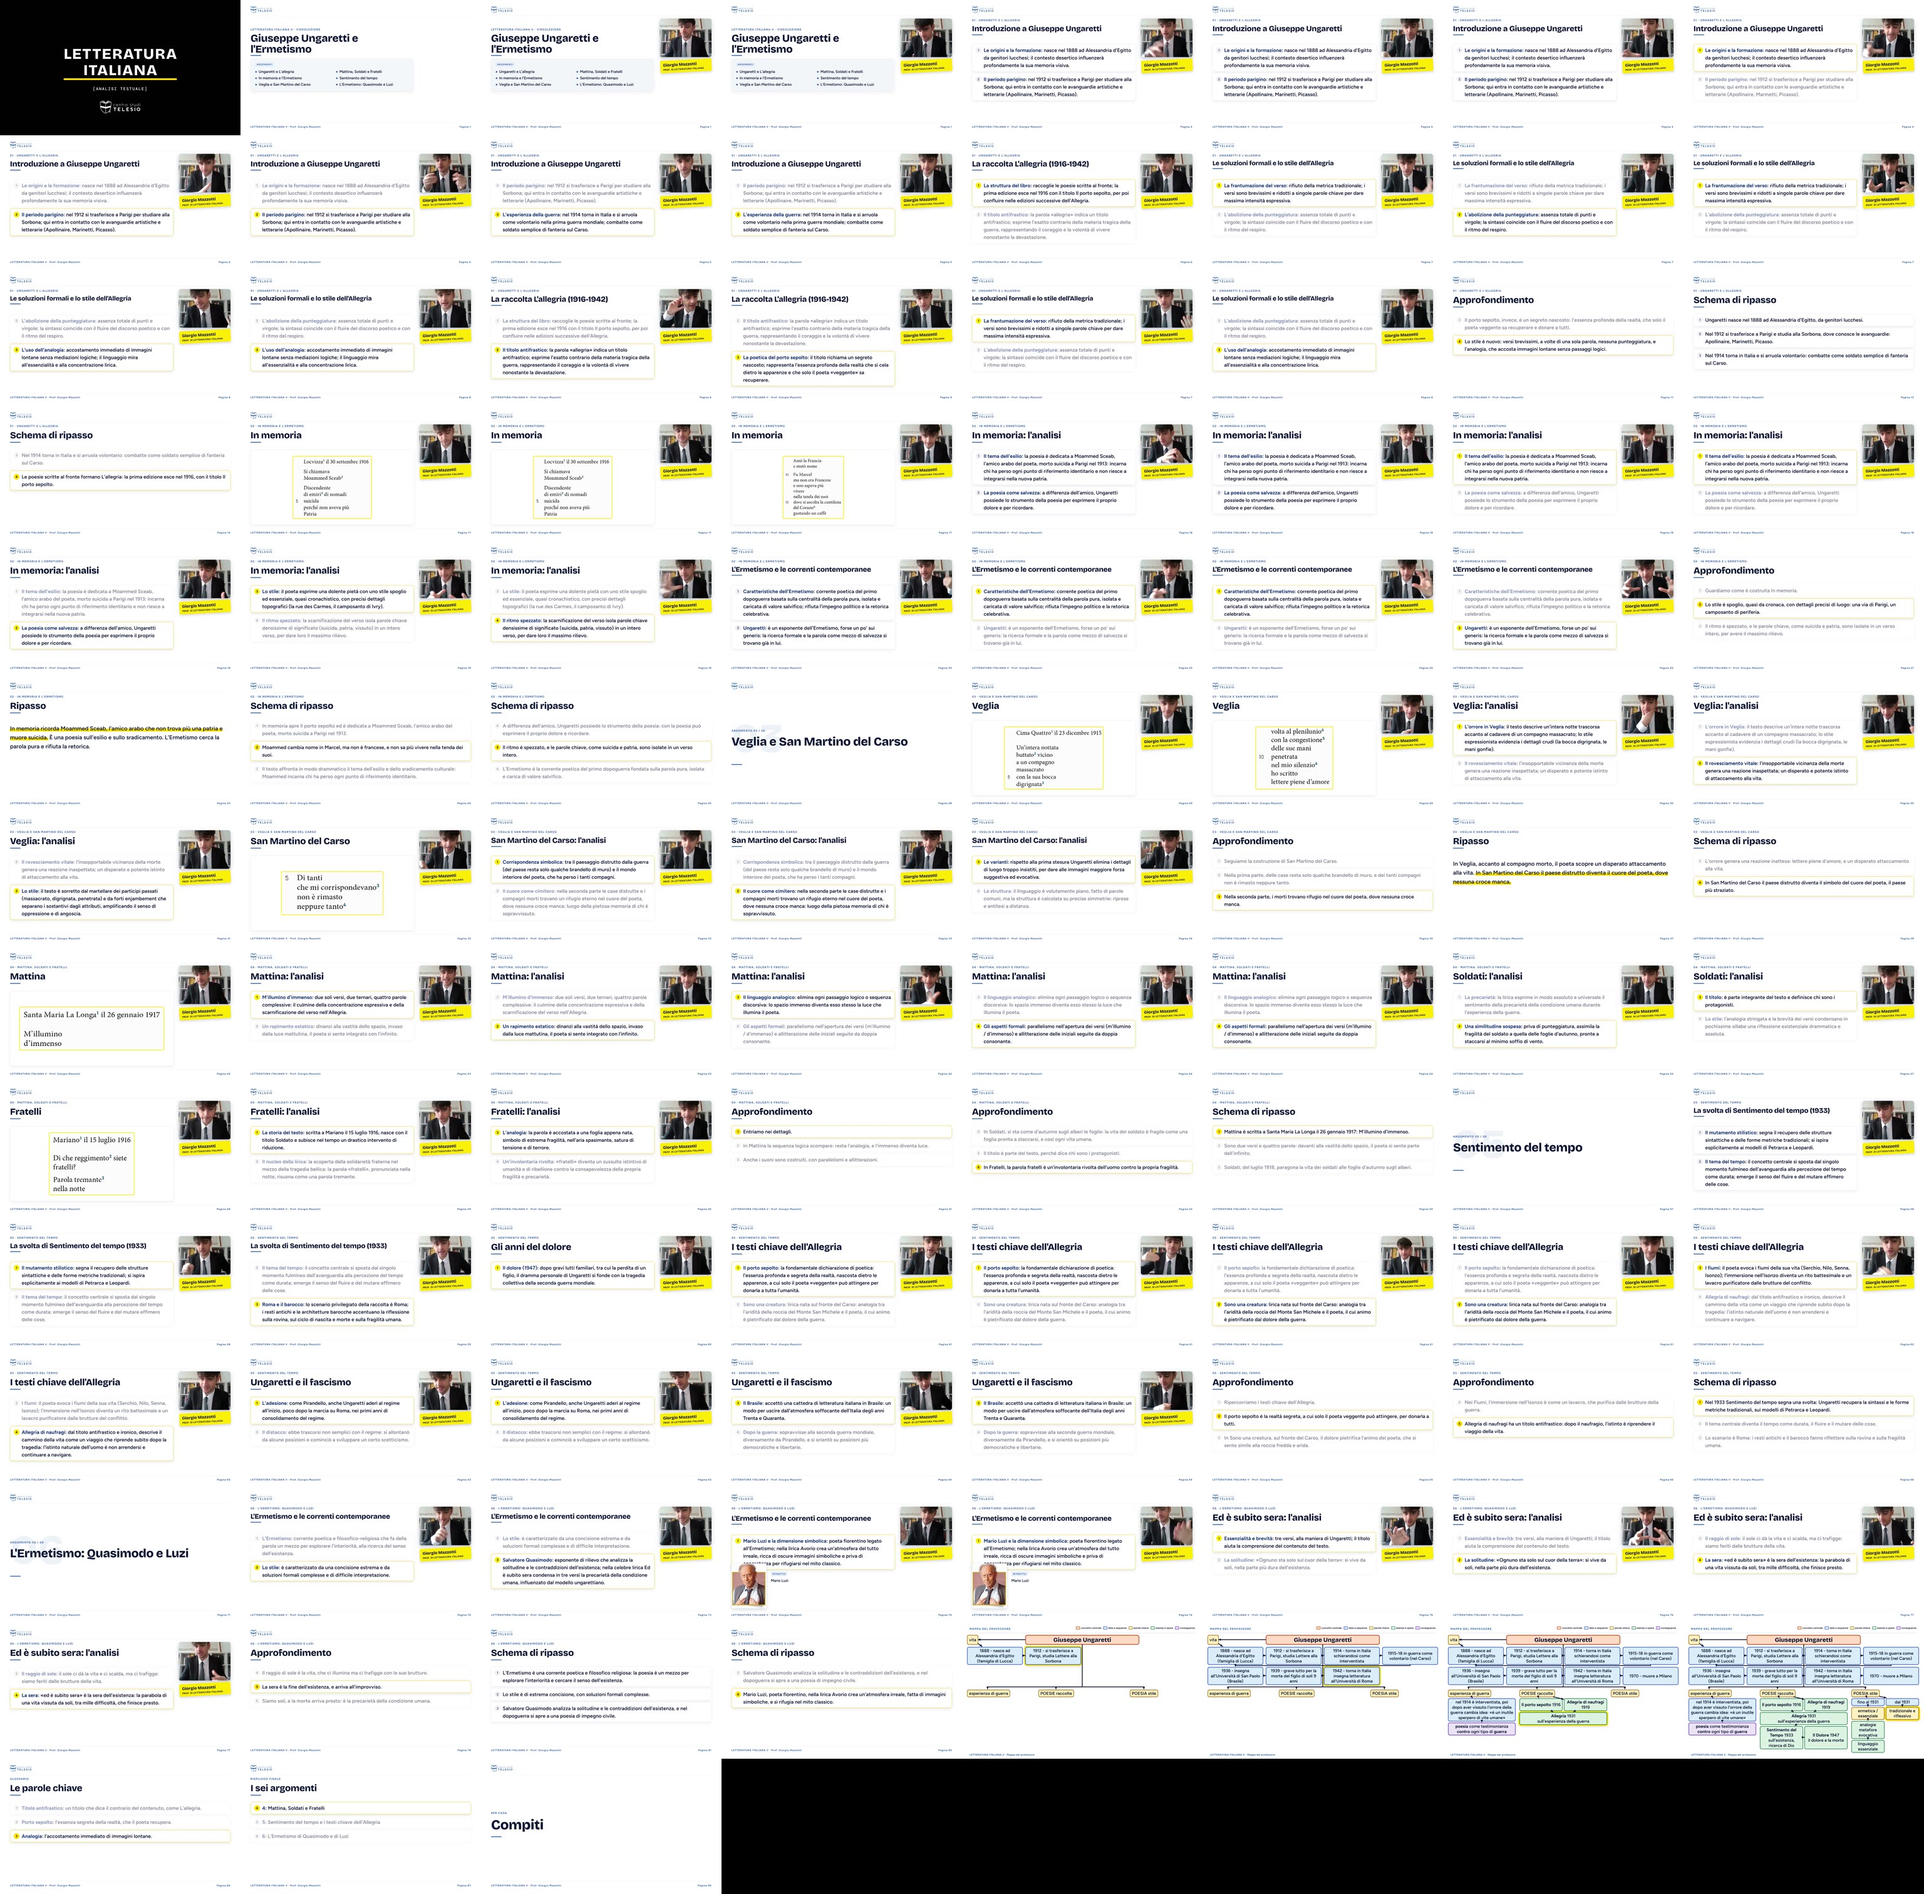
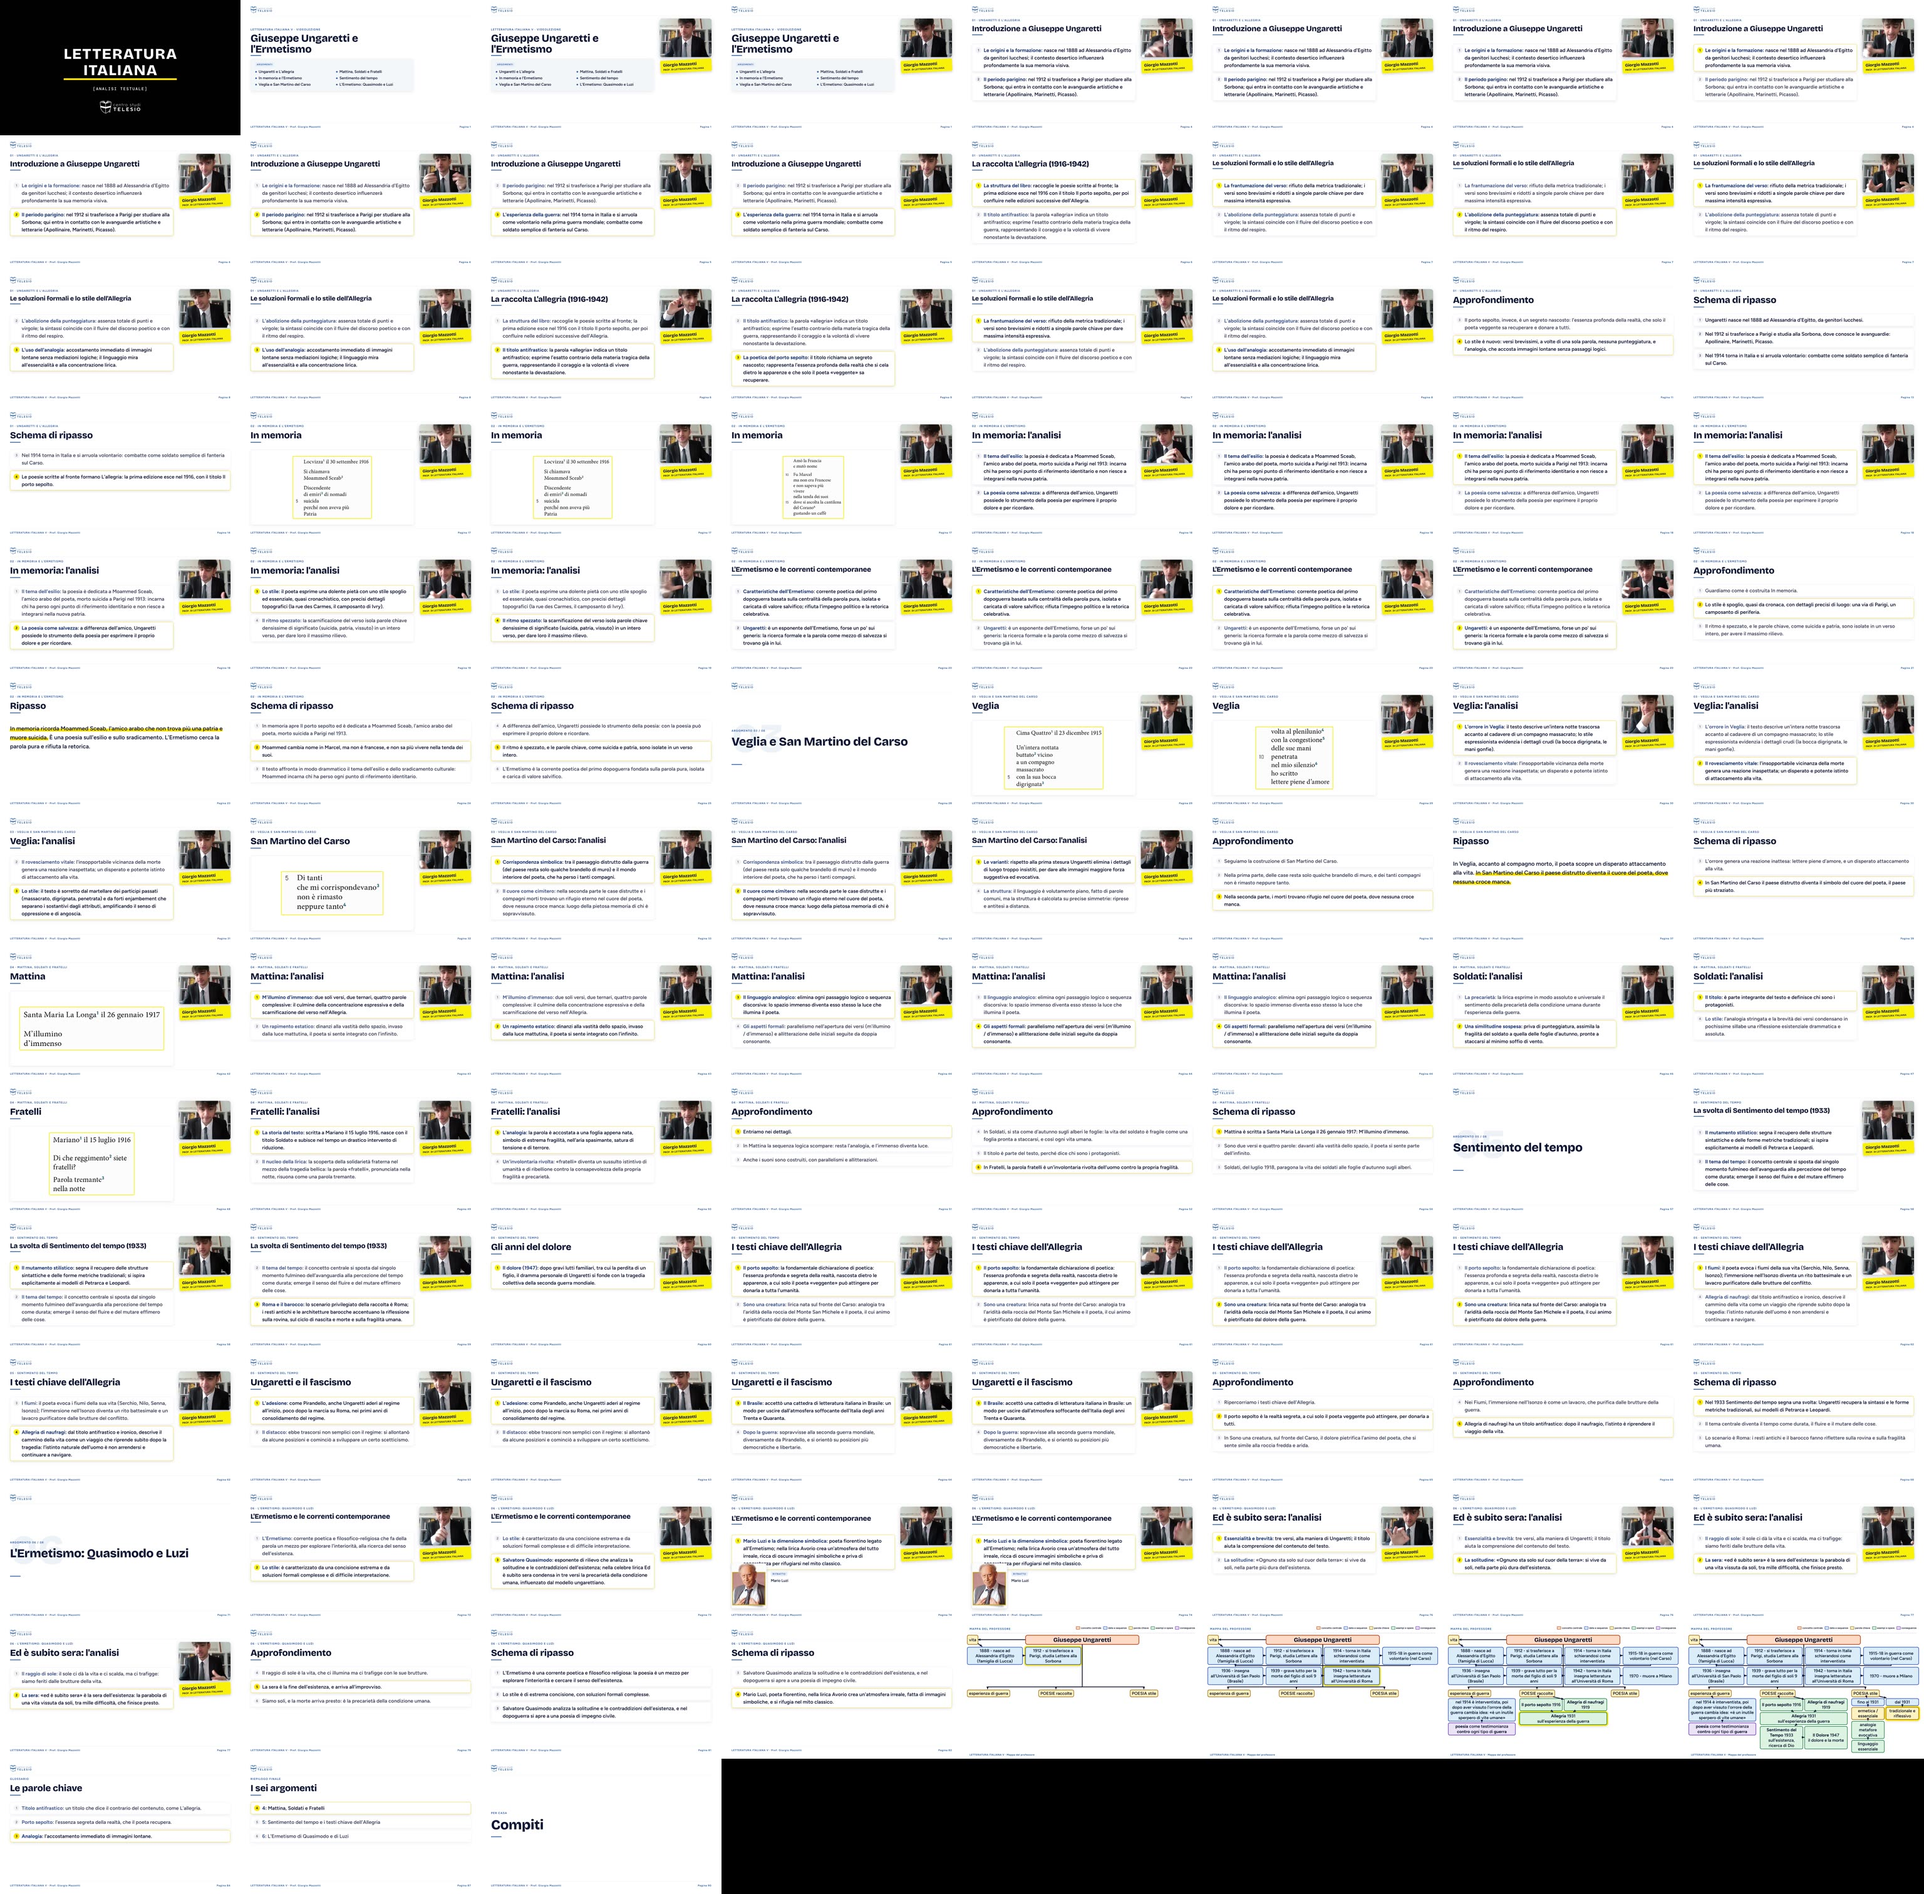
Lezione 17 correzioni 22/11: consegna finale (controllo severo OK)

diff --git a/revisione-letteratura-V-lez17/RAPPORTO_REVISIONE.md b/revisione-letteratura-V-lez17/RAPPORTO_REVISIONE.md
@@ -20,14 +20,14 @@ Questa è la versione di correzione del 22/11 (regole blindate): sostituisce la 
 |---|---|
 | Formato | 1920×1080, 30 fps, x264 veryfast CRF 19, AAC 192 k, 48 kHz |
 | Durata / fotogrammi | **3202,6 s = 53:23 · 96 078 fotogrammi = durata × 30**; ogni pezzo ha i fotogrammi del piano (46/46) |
-| Peso | 380,9 MB (< 400 MB) |
-| Volume | **−16,8 LUFS** integrato (LRA 6,8 LU), picco **−2,5 dBFS** |
+| Peso | 385,9 MB (< 400 MB) |
+| Volume | **−16,9 LUFS** integrato (LRA 6,9 LU), picco **−2,5 dBFS** |
 | Timbro della voce del prof | rapporto acuti >4 kHz / bassi >100 Hz: D1 −18,1, D2 −15,0, D3 −16,9, D4 −15,0, D5 −20,5, D6 −18,9 dB. Voce **non alterata**: identica all'originale entro ±2,1 dB (D5 −20,5 vs −20,9 dell'originale: è già al limite nel file originale) |
 | Sincronia labbra/voce | correlazione con l'audio dell'originale (3–6 punti per pezzo): scarto massimo **0,018 s** (limite 0,04) |
 | Immagine ferma del prof | `freezedetect` sul riquadro (≥ 1 s): **nessun fermo**. Nell'introduzione animata (0:15–0:48) **nessun riquadro**, nemmeno vuoto; il riquadro compare da 0:53 quando il prof parla |
-| Jingle Quiz | `controllo_jingle.py` con `quiz.wav` del kit: Q1–Q6 scarto +0,004 s, **tutti OK** |
-| Transizioni | `trans.wav` + dissolvenza da/verso il bianco di 0,3 s a ogni cambio di pezzo |
-| Controllo severo (`controllo_severo.py`) | __SEVERO__ |
+| Jingle Quiz | `controllo_jingle.py` con `quiz.wav` del kit: Q1–Q6 scarto +0,004 s, **tutti OK** (il controllo ha anche intercettato un disallineamento dell'audio dei pezzi senza il prof, causato dalla timeline sbagliata: corretto) |
+| Transizioni | `trans.wav` + dissolvenza da/verso il bianco di 0,3 s a ogni cambio di pezzo; nelle code mute delle schede (titoli, quiz, mappa, verifica, compiti) un sottofondo morbido (accordo a −37 dB) perché nessuna scheda resti in silenzio |
+| Controllo severo (`controllo_severo.py`) | **ESITO OK, zero errori** (terza esecuzione). Copertina da 0:15 per 90 s (≤ 180 s), titolo esatto presente; nessuna slide con lo stesso titolo oltre 3 min; nessuna schermata identica oltre 3 min; nessuna card con «…»; nessun tratto con una card sola oltre 60 s; loudness -16.9 LUFS; pause oltre 2,5 s: 0; voce: tono [152, 156, 164, 156, 160, 152] Hz, chiarezza [1316, 1333, 1207, 1283, 1281, 1351] Hz (nessuna alterazione). Il controllo segnala 30 campioni «iniziale minuscola»: sono letture OCR che perdono l'«Il» davanti a «tema»; ho verificato nei sorgenti delle slide (358 card) che **ogni card inizia con la maiuscola** (eccetto le 6 righe del riepilogo finale, che cominciano con il numero) e a vista su un campione. Prime due esecuzioni: RESPINTA (7 tratti con card sola: le card attenuate al 50% non si leggevano; 15 pause oltre 2,5 s nelle code mute di titoli, quiz, mappa, verifica e compiti) → card attenuate all'80%, sottofondo morbido nelle code mute, numerazione relativa 1–2 nelle finestre di «Ed è subito sera: l'analisi». |
 
 ## 3. Confronto col modello (punto 000)
 Riquadro 4:3 (412×309 a x=1428, y=148, ombra grigia), fascia gialla −3° a due righe, fondo bianco puro, Bricolage 800 + Figtree, ombre grigie, schede di titolo/quiz/riepilogo bianche come nel modello Spagnolo, finale del kit con avviso diritti, struttura sigla → copertina → 6 argomenti (titolo con jingle, prof con slide, approfondimento, ripasso con jingle, schema, quiz) → mappa → glossario → riepilogo → verifica → fine → finale → compiti. **Compiti del prof** (4 esercizi) e **verifica di sbarramento** con le 10 domande dell'Excel del prof dentro il video.
